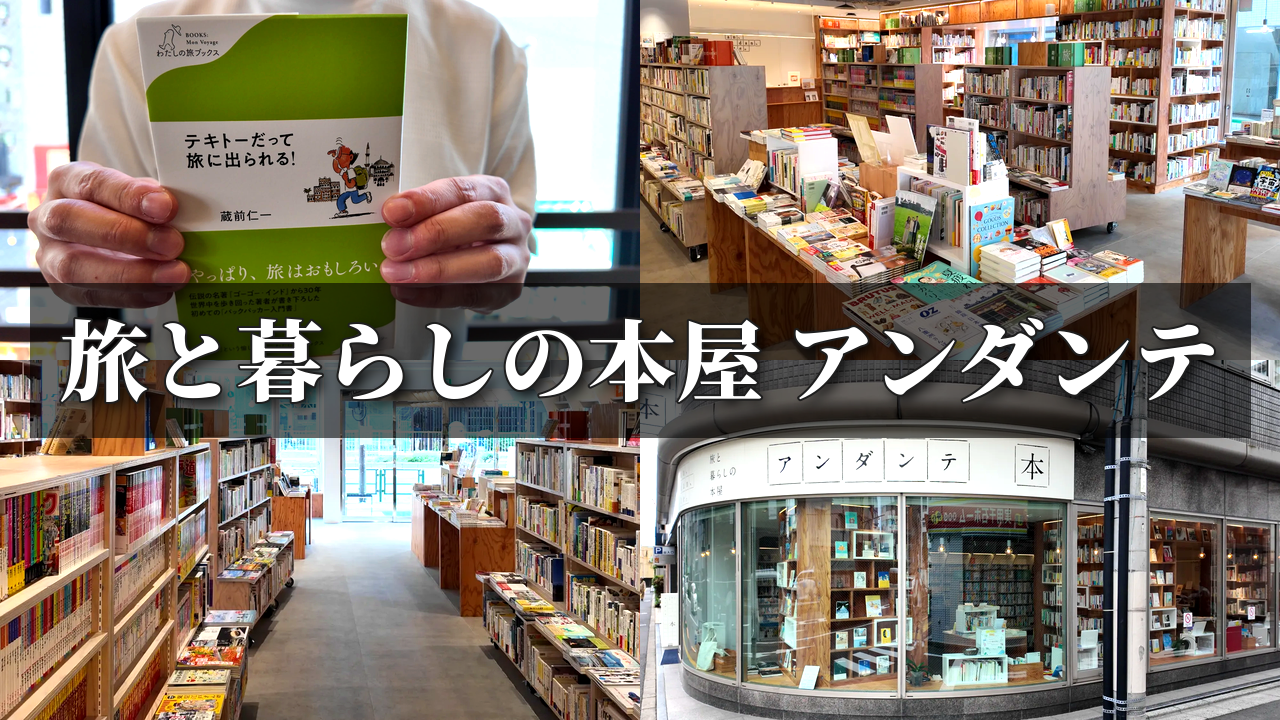
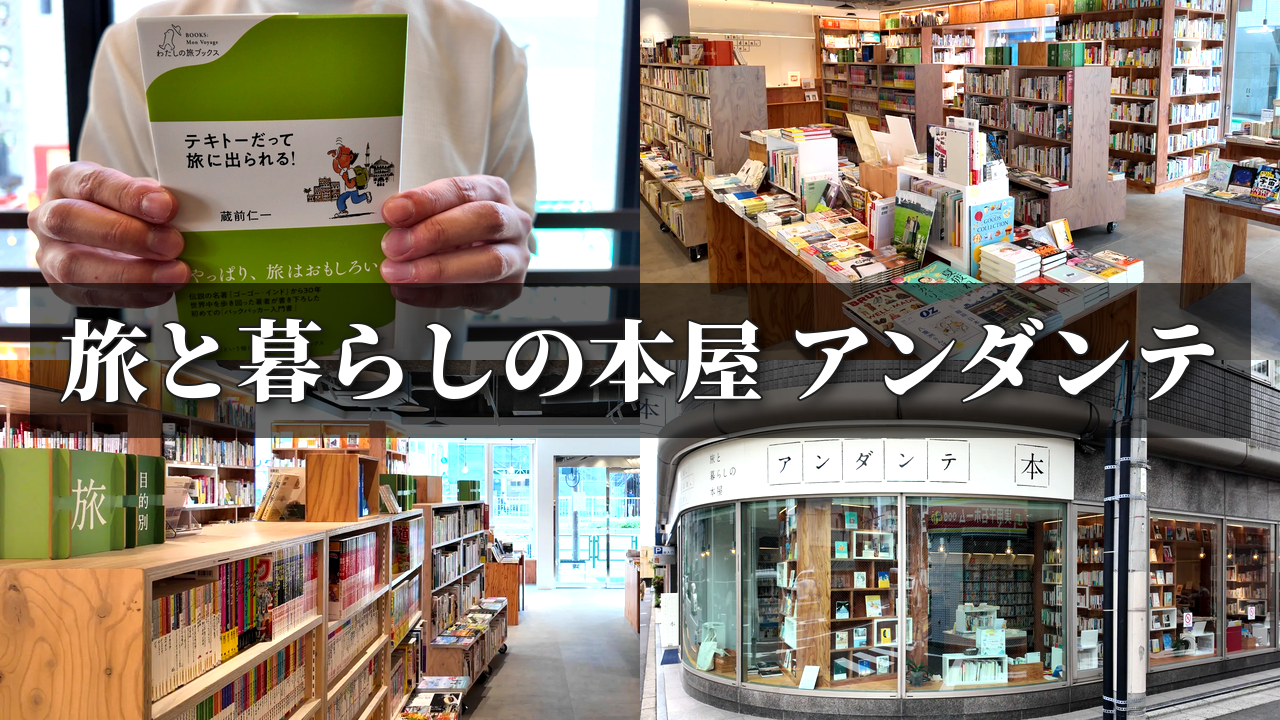
左下の通路写真に「旅」の看板を入れる
Claude-Session: https://claude.ai/code/session_01PgBssd9mgKDSdASv1kBNHd

Changed region(s): [[0.0, 0.4889, 0.5, 1.0]]

diff --git a/thumbnail/make_thumbnail.py b/thumbnail/make_thumbnail.py
@@ -24,7 +24,7 @@ BRIGHTNESS = 1.18  # 写真の明るさ（1.0 = 元のまま）
 # 写真ごとの切り抜き範囲（元画像に対する割合: 左, 上, 右, 下）。指定なしは中央基準
 CROPS = {
     2: (0.12, 0.27, 0.853, 1.0),  # 店内: 天井を切って本棚と平台を大きく
-    3: (0.20, 0.40, 0.80, 1.0),  # 通路: 天井を切って「旅」の棚と本棚を大きく
+    3: (0.0, 0.29, 0.60, 0.89),  # 通路: 天井は帯の裏に隠し、「旅」の看板は帯の下に見せる
     4: (0.10, 0.0, 0.95, 0.85),  # 外観: 左の歩道と足元を削って建物を大きく、看板は帯の下に
 }
 
